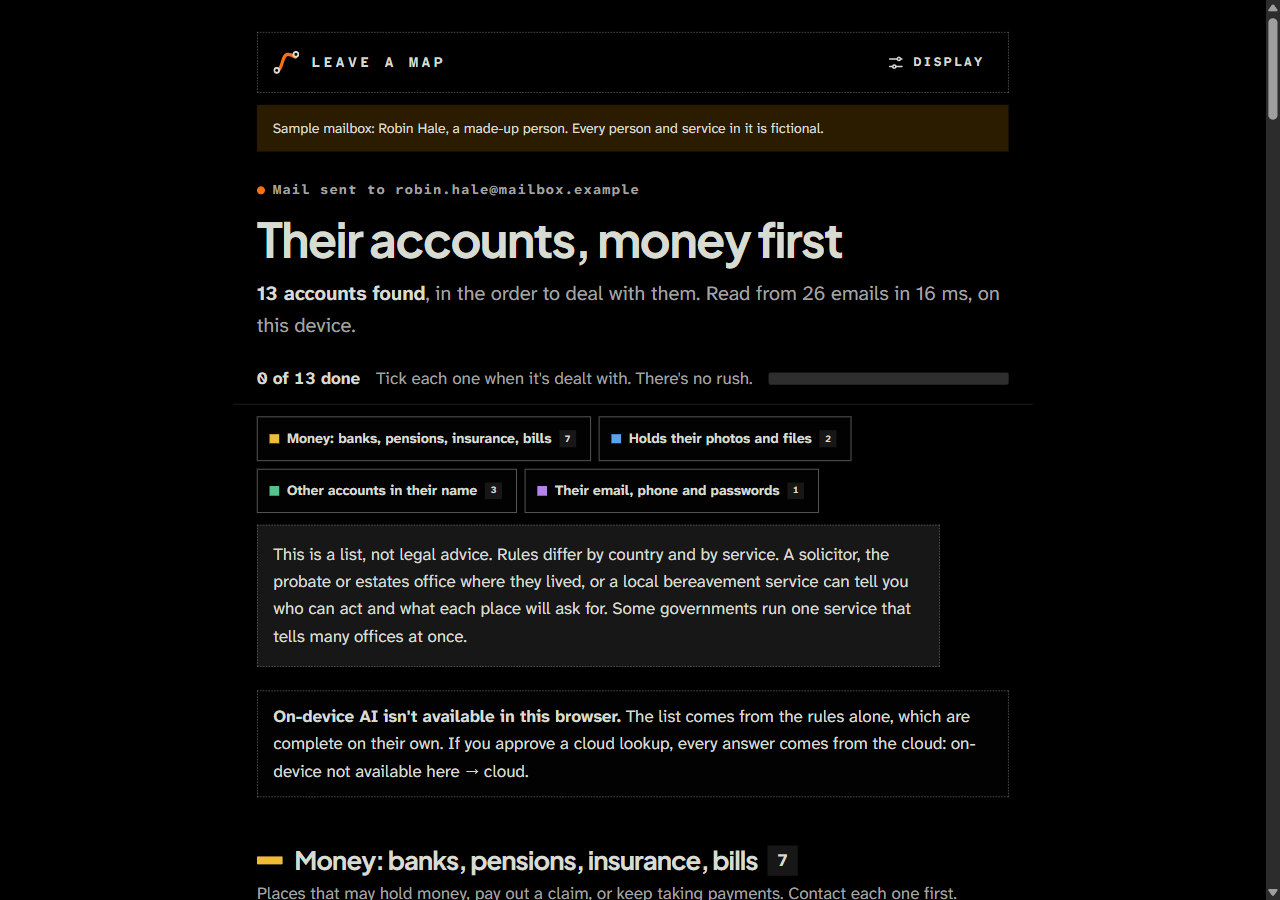
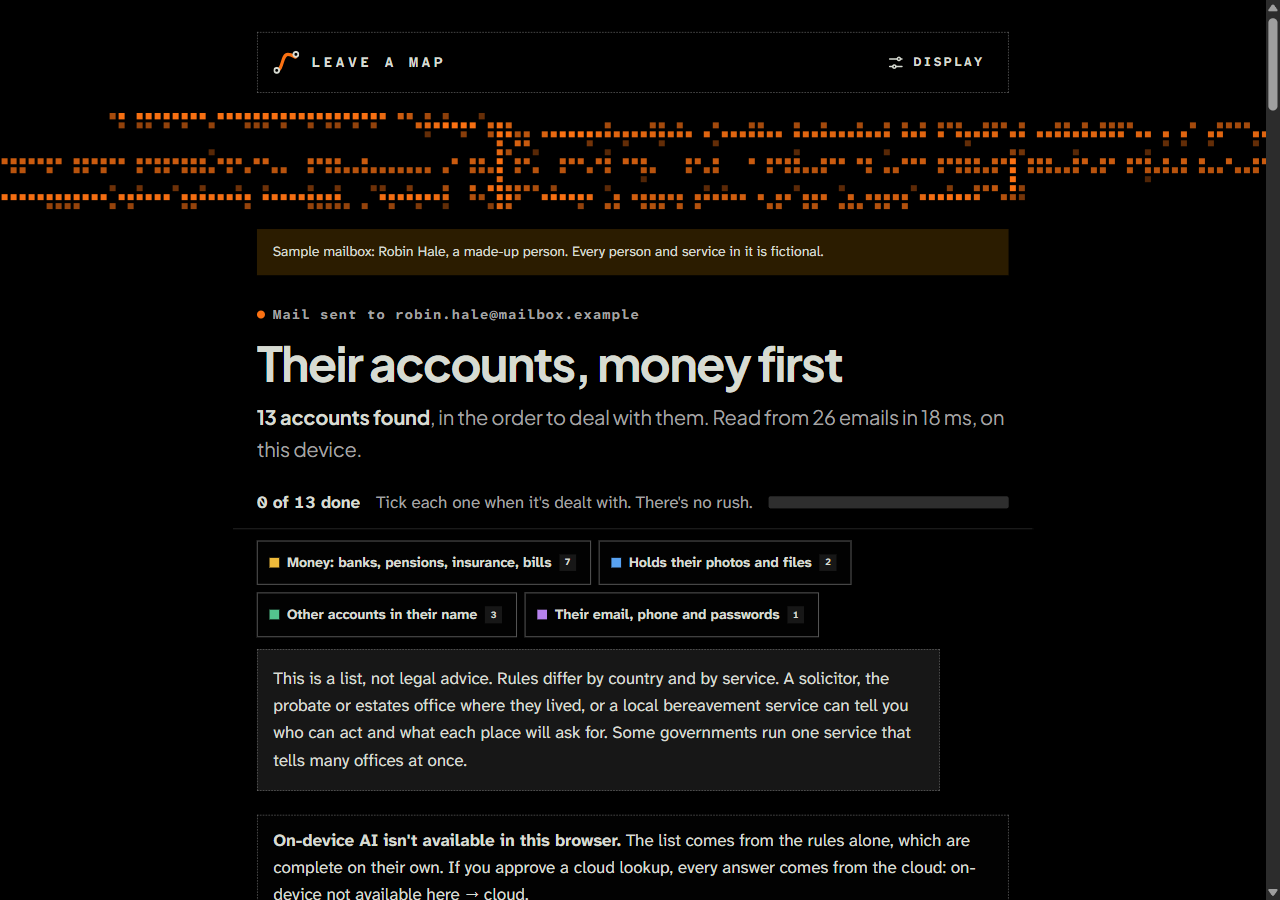
Dot-field background and reference-style type
- pixel-field.tsx: canvas of orange squares along the route lines. Flickers,
  turns into a ring as you scroll, grows from the centre during the scan,
  and shows as a band on the map. aria-hidden, one still frame with motion off.
- Start hero: mono kicker row, lede, very large tight headline with an
  orange full stop.
- Scan: big handwritten percentage (Architects Daughter) under the field.
- Cards: label/value fact rows.
- DESIGN.md, NOTICE, screenshots updated.

Changed region(s): [[0.0, 0.0933, 1.0, 0.7156], [0.1875, 0.9022, 0.75, 1.0], [0.1875, 0.7467, 0.75, 0.8711]]

diff --git a/apps/scan/src/styles.css b/apps/scan/src/styles.css
@@ -25,6 +25,7 @@
   --font-display: "Plus Jakarta Sans Variable", system-ui, -apple-system, "Segoe UI", sans-serif;
   --font-body: "Atkinson Hyperlegible Next Variable", system-ui, -apple-system, "Segoe UI", sans-serif;
   --font-mono: "Atkinson Hyperlegible Mono Variable", ui-monospace, "Cascadia Mono", monospace;
+  --font-hand: "Architects Daughter", "Segoe Print", cursive;
 
   --step--1: .875rem;
   --step-0: 1.0625rem;
@@ -125,7 +126,7 @@ h1[tabindex="-1"]:focus { outline: none; }
 
 .page { max-width: 46rem; margin: 0 auto; padding: var(--space-6) var(--space-4) var(--space-8); }
 .page.wide { max-width: 72rem; }
-.lede { font-size: var(--step-1); color: var(--muted); max-width: 38ch; }
+.lede { font-family: var(--font-display); font-size: var(--step-1); font-weight: 400; letter-spacing: -0.01em; color: var(--muted); max-width: 38ch; margin: 0; }
 .muted, .meta { color: var(--muted); font-size: var(--step--1); }
 .domain { font-family: var(--font-mono); font-size: .92em; color: var(--muted); overflow-wrap: break-word; word-break: normal; }
 .error { color: var(--error); font-weight: 700; margin: 0; }
@@ -182,13 +183,9 @@ th { color: var(--muted); font-weight: 700; }
 
 /* ---------- Start ---------- */
 .start { display: grid; gap: var(--space-6); padding-top: var(--space-5); }
-.hero { display: grid; gap: var(--space-4); padding-block: var(--space-5) var(--space-2); }
-.hero h1 { font-size: var(--step-4); line-height: .98; margin: 0; max-width: 15ch; letter-spacing: -0.05em; }
+.hero { display: grid; gap: var(--space-4); padding-block: var(--space-3) var(--space-2); }
+.hero h1 { font-size: clamp(3rem, .8rem + 8.5vw, 7rem); font-weight: 600; line-height: .9; margin: 0; letter-spacing: -0.055em; }
 .hero h1 .dot { color: var(--accent); }
-.hero-art { order: -1; width: 100%; max-width: 18rem; height: auto; justify-self: start; pointer-events: none; }
-.hero-art .route { fill: none; stroke-width: 8; stroke-linecap: butt; stroke-dasharray: 8 4; }
-.hero-art .r1 { stroke: var(--accent); } .hero-art .r2 { stroke: var(--muted); } .hero-art .r3 { stroke: var(--line-strong); }
-.hero-art .stn { fill: var(--paper); stroke: var(--ink); stroke-width: 3; }
 .assure {
   display: flex; gap: var(--space-3); align-items: flex-start; margin: 0;
   padding: var(--space-3) 0; border-block: var(--dash);
@@ -235,11 +232,8 @@ th { color: var(--muted); font-weight: 700; }
 
 /* ---------- Scanning ---------- */
 .scanning { min-height: 80dvh; display: grid; align-content: center; gap: var(--space-4); }
-.scan-art { width: 100%; max-width: 32rem; height: auto; overflow: visible; }
-.scan-art .track { fill: none; stroke: var(--line); stroke-width: 8; stroke-linecap: round; }
-.scan-art .done { fill: none; stroke: var(--accent); stroke-width: 8; stroke-linecap: round; transition: stroke-dashoffset var(--dur-2) var(--ease-out); }
-.scan-art .train { fill: var(--accent); }
-.scan-pct { font-family: var(--font-display); font-size: var(--step-4); font-weight: 700; letter-spacing: -0.05em; line-height: 1; margin: 0; font-variant-numeric: tabular-nums; }
+.scan-pct { margin: 0; text-align: right; font-family: var(--font-hand); font-size: clamp(3.5rem, 2rem + 6vw, 6.5rem); line-height: 1; color: var(--muted); }
+.scan-pct span { font-size: .45em; }
 .scan-count { margin: 0; font-variant-numeric: tabular-nums; color: var(--muted); }
 
 /* ---------- Map: header ---------- */
@@ -251,7 +245,7 @@ th { color: var(--muted); font-weight: 700; }
 }
 .eyebrow::before { content: ""; flex: none; width: .5rem; height: .5rem; border-radius: 50%; background: var(--accent); }
 .map-head h1 { margin: 0; }
-.summary { margin: 0; font-size: var(--step-1); color: var(--muted); }
+.summary { margin: 0; font-family: var(--font-display); font-size: var(--step-1); letter-spacing: -0.01em; color: var(--muted); }
 .summary strong { color: var(--ink); }
 .count { display: inline-grid; place-items: center; min-width: 1.75em; height: 1.75em; padding: 0 .45em; margin-left: .35em; border-radius: var(--radius-s); background: var(--sunk); color: var(--ink); font-family: var(--font-mono); font-size: .68em; font-weight: 700; letter-spacing: 0; vertical-align: .2em; }
 
@@ -443,7 +437,6 @@ details[open] > summary .chev { transform: rotate(90deg); }
   .card { padding: var(--space-3); }
   .card-head { flex-wrap: wrap; }
   .moved { margin-left: 0; }
-  .hero-art { max-width: 12rem; }
   .wordmark { letter-spacing: .12em; font-size: .8rem; }
   .topbar { padding-left: var(--space-3); }
   button.display-btn { padding-inline: .5rem; letter-spacing: .1em; }
@@ -525,19 +518,14 @@ button.chip-btn[aria-pressed="true"] { background: var(--accent-soft); border-co
 :root.motion-ok .screen > :nth-child(4) { animation-delay: 240ms; } :root.motion-ok .screen > :nth-child(5) { animation-delay: 320ms; }
 :root.motion-ok .screen > :nth-child(n+6) { animation-delay: 400ms; }
 :root.motion-ok .hero { animation: none; }
-:root.motion-ok .hero > :not(.hero-art) { animation: rise var(--dur-3) var(--ease-expo) .75s backwards; }
-:root.motion-ok .hero-art .route { animation: fade .9s var(--ease-out) .2s backwards; }
-:root.motion-ok .hero-art .r2 { animation-delay: .55s; } :root.motion-ok .hero-art .r3 { animation-delay: .8s; }
-:root.motion-ok .hero-art .stn { transform-box: fill-box; transform-origin: center; animation: pop .6s var(--ease-expo) backwards; }
-:root.motion-ok .hero-art .stn:nth-of-type(1) { animation-delay: 1.1s; } :root.motion-ok .hero-art .stn:nth-of-type(2) { animation-delay: 1.25s; }
-:root.motion-ok .hero-art .stn:nth-of-type(3) { animation-delay: 1.4s; } :root.motion-ok .hero-art .stn:nth-of-type(4) { animation-delay: 1.55s; }
+:root.motion-ok .hero > .pixel-field { animation: fade 1.2s var(--ease-out) backwards; }
+:root.motion-ok .hero > :not(.pixel-field) { animation: rise var(--dur-3) var(--ease-expo) .5s backwards; }
 /* Typing: a station lights up when its answer is in */
 :root.motion-ok .station.is-done .station-n { animation: pop .5s var(--ease-expo); }
 :root.motion-ok .field-note.is-good, :root.motion-ok .field-note.is-warn { animation: rise .35s var(--ease-expo); }
 :root.motion-ok .display-panel:popover-open { animation: panel .32s var(--ease-expo); }
 
 /* Scanning */
-:root.motion-ok .scan-art .train { animation: pulse 1.2s ease-in-out infinite; transform-box: fill-box; transform-origin: center; }
 :root.motion-ok .scan-status { animation: rise .4s var(--ease-expo); }
 
 /* Map */
@@ -582,7 +570,7 @@ button.chip-btn[aria-pressed="true"] { background: var(--accent-soft); border-co
 /* ---------- Print: the list as a checklist on paper ---------- */
 @media print {
   .progress { position: static; }
-  .cloud, .nano, .no-ai, .skip, button, .hero-art { display: none !important; }
+  .cloud, .nano, .no-ai, .skip, button, .pixel-field { display: none !important; }
   .card { box-shadow: none; break-inside: avoid; }
   details { display: block; }
 }
@@ -598,3 +586,24 @@ button.chip-btn[aria-pressed="true"] { background: var(--accent-soft); border-co
 .mode-text { display: grid; gap: var(--space-1); }
 .mode-text span { color: var(--muted); }
 .loss-note { margin: 0; padding: var(--space-4); border: var(--dash); border-radius: var(--radius-m); background: var(--sunk); max-width: 62ch; }
+
+
+/* ---------- Pixel field and the reference-style text ---------- */
+/* The dot-matrix canvas (pixel-field.tsx) runs edge to edge; it reads its colour from `color`. */
+.pixel-field { display: block; width: 100vw; margin-inline: calc(50% - 50vw); height: clamp(15rem, 44vh, 26rem); color: var(--accent); }
+.pixel-field.band { height: 6.5rem; margin-block: var(--space-2) 0; }
+.scan-stage .pixel-field { height: clamp(16rem, 50vh, 30rem); }
+:root[data-contrast="more"] .pixel-field { opacity: .75; }
+@media (forced-colors: active) { .pixel-field { display: none; } }
+
+/* Small labels in a row, like a sign: what this is, and a status with a dot. */
+.kicker { display: flex; flex-wrap: wrap; justify-content: space-between; gap: var(--space-2) var(--space-4); margin: 0;
+  font-family: var(--font-mono); font-size: .8rem; font-weight: 700; text-transform: uppercase; letter-spacing: .18em; color: var(--muted); }
+.kicker .live { display: inline-flex; align-items: center; gap: .55rem; }
+.kicker .live::before { content: ""; width: .5rem; height: .5rem; border-radius: 50%; background: var(--accent); }
+
+/* Card facts: label over value, side by side. */
+.facts { display: flex; flex-wrap: wrap; gap: var(--space-3) var(--space-6); margin: var(--space-4) 0 0; padding-top: var(--space-3); border-top: var(--dash); }
+.facts div { min-width: 0; }
+.facts dt { font-family: var(--font-mono); font-size: .78rem; font-weight: 700; text-transform: uppercase; letter-spacing: .14em; color: var(--muted); }
+.facts dd { margin: .15rem 0 0; font-family: var(--font-display); font-weight: 600; }

diff --git a/apps/scan/src/pixel-field.tsx b/apps/scan/src/pixel-field.tsx
@@ -1,0 +1,104 @@
+// A dot-matrix picture drawn on a canvas: small squares in the accent colour, densest along three
+// route lines and their stops, thinning out at the edges. It flickers a little, changes shape as
+// you scroll (the routes gather into one big stop), and can grow out from the centre as `grow` goes
+// from 0 to 1 (the scan screen). Decorative only: aria-hidden, and with motion off it draws one
+// still frame. Text never sits on top of it.
+import { useEffect, useRef } from 'preact/hooks';
+
+type Props = { grow?: number; morph?: boolean; class?: string };
+
+const CELL = 9;   // grid pitch in CSS px
+const DOT = 6;    // square size in CSS px
+
+// Route lines in a 0..1 box (x, y pairs), the same three lines as the old route art.
+const ROUTES: number[][] = [
+  [0, .88, .32, .88, .4, .78, .4, .3, .48, .2, 1, .2],
+  [.1, .06, .3, .06, .4, .18, .4, .8, .48, .9, .72, .9, .8, .8, .8, .52],
+  [0, .54, 1, .54],
+];
+const STOPS = [[.4, .54], [.4, .2], [.8, .54], [.4, .88]];
+
+function segDist(px: number, py: number, ax: number, ay: number, bx: number, by: number) {
+  const dx = bx - ax, dy = by - ay;
+  const t = Math.max(0, Math.min(1, ((px - ax) * dx + (py - ay) * dy) / (dx * dx + dy * dy || 1)));
+  return Math.hypot(px - ax - t * dx, py - ay - t * dy);
+}
+
+/** Density 0..1 for the route picture (a) and the single big stop (b), at a point in the box. */
+function density(u: number, v: number, aspect: number): [number, number] {
+  let d = 9;
+  for (const r of ROUTES) for (let i = 0; i + 3 < r.length; i += 2) d = Math.min(d, segDist(u * aspect, v, r[i] * aspect, r[i + 1], r[i + 2] * aspect, r[i + 3]));
+  for (const [x, y] of STOPS) d = Math.min(d, Math.max(0, Math.hypot((u - x) * aspect, v - y) - .05));
+  const a = Math.max(0, 1 - d / .16) ** 1.6;
+  const ring = Math.abs(Math.hypot((u - .5) * aspect, v - .5) - .3);
+  const b = Math.max(0, 1 - ring / .14) ** 1.4;
+  return [a, b];
+}
+
+// Stable per-cell noise, so the picture doesn't jump between frames.
+const hash = (i: number, j: number) => { const s = Math.sin(i * 127.1 + j * 311.7) * 43758.5453; return s - Math.floor(s); };
+
+export function PixelField({ grow = 1, morph = false, class: cls = '' }: Props) {
+  const ref = useRef<HTMLCanvasElement>(null);
+  const growRef = useRef(grow);
+  growRef.current = grow;
+
+  useEffect(() => {
+    const cv = ref.current!;
+    const cx = cv.getContext('2d');
+    if (!cx) return;
+    let cols = 0, rows = 0, A = new Float32Array(0), B = new Float32Array(0), N = new Float32Array(0);
+    let colour = '#f97316', raf = 0, last = 0;
+    const moving = () => document.documentElement.classList.contains('motion-ok');
+
+    const layout = () => {
+      const r = cv.getBoundingClientRect(), dpr = Math.min(2, devicePixelRatio || 1);
+      cv.width = Math.round(r.width * dpr); cv.height = Math.round(r.height * dpr);
+      cx.setTransform(dpr, 0, 0, dpr, 0, 0);
+      cols = Math.floor(r.width / CELL); rows = Math.floor(r.height / CELL);
+      const aspect = r.width / Math.max(1, r.height);
+      A = new Float32Array(cols * rows); B = new Float32Array(cols * rows); N = new Float32Array(cols * rows);
+      for (let j = 0; j < rows; j++) for (let i = 0; i < cols; i++) {
+        const k = j * cols + i, [a, b] = density((i + .5) / cols, (j + .5) / rows, aspect);
+        A[k] = a; B[k] = b; N[k] = hash(i, j);
+      }
+      colour = getComputedStyle(cv).color || colour;
+    };
+
+    const draw = (t: number) => {
+      const w = cols * CELL, h = rows * CELL, g = growRef.current, live = moving();
+      const box = cv.getBoundingClientRect();
+      // Scroll morph: 0 while the field is in view, 1 once it has scrolled most of the way out.
+      const m = morph && live ? Math.max(0, Math.min(1, -box.top / Math.max(1, box.height * .8))) : 0;
+      cx.clearRect(0, 0, cv.width, cv.height);
+      cx.fillStyle = colour;
+      for (let j = 0; j < rows; j++) for (let i = 0; i < cols; i++) {
+        const k = j * cols + i, n = N[k];
+        let d = A[k] + (B[k] - A[k]) * m;
+        if (g < 1) { const r = Math.hypot((i + .5) / cols - .5, ((j + .5) / rows - .5) * h / Math.max(1, w)); d *= Math.max(0, Math.min(1, (g * .75 - r) / .06)); }
+        if (d <= 0) continue;   // flicker never lights a cell outside the shape
+        const flicker = live ? .07 * Math.sin(t / 380 + n * 40) : 0;
+        if (n > d + flicker) continue;
+        cx.globalAlpha = Math.min(1, .3 + d * .8);
+        cx.fillRect(i * CELL, j * CELL, DOT, DOT);
+      }
+      cx.globalAlpha = 1;
+    };
+
+    // ponytail: ~12 frames a second is enough for a dot-matrix flicker and keeps the CPU quiet.
+    const loop = (t: number) => { if (t - last > 80) { last = t; draw(t); } raf = requestAnimationFrame(loop); };
+    const start = () => { cancelAnimationFrame(raf); layout(); if (moving()) raf = requestAnimationFrame(loop); else draw(0); };
+    start();
+    const redraw = () => draw(0);
+    cv.addEventListener('lam-redraw', redraw);
+    const ro = new ResizeObserver(start); ro.observe(cv);
+    // Redraw when the Display menu changes the theme or motion.
+    const mo = new MutationObserver(start); mo.observe(document.documentElement, { attributes: true, attributeFilter: ['class', 'data-theme', 'data-contrast'] });
+    return () => { cancelAnimationFrame(raf); cv.removeEventListener('lam-redraw', redraw); ro.disconnect(); mo.disconnect(); };
+  }, [morph]);
+
+  // With motion off there is no loop, so redraw when `grow` changes.
+  useEffect(() => { if (!document.documentElement.classList.contains('motion-ok')) ref.current?.dispatchEvent(new Event('lam-redraw')); }, [grow]);
+
+  return <canvas ref={ref} class={`pixel-field ${cls}`} aria-hidden="true" />;
+}

diff --git a/apps/scan/src/main.tsx b/apps/scan/src/main.tsx
@@ -6,8 +6,10 @@ import { lazy, Suspense } from 'preact/compat';
 import '@fontsource-variable/atkinson-hyperlegible-next';
 import '@fontsource-variable/atkinson-hyperlegible-mono';
 import '@fontsource-variable/plus-jakarta-sans';
+import '@fontsource/architects-daughter/latin-400.css';
 import './styles.css';
 import { applyDisplay, loadDisplay, TopBar } from './display.tsx';
+import { PixelField } from './pixel-field.tsx';
 
 applyDisplay(loadDisplay());
 import { StartScreen } from './screens/start.tsx';
@@ -43,19 +45,16 @@ function App() {
   if (state.step === 'start') return <StartScreen onScan={scan} onSample={trySample} error={state.error} />;
   if (state.step === 'scanning') {
     const pct = state.totalBytes ? Math.floor((state.bytesRead / state.totalBytes) * 100) : 0;
-    const x = 20 + (pct / 100) * 480;
     const loss = state.mode === 'loss';
     const stage = pct < 25 ? 'Opening the mailbox…' : pct < 75 ? `Reading who sends ${loss ? 'them' : 'you'} mail…` : 'Sorting what matters most…';
     return (
       <main id="main" class="page scanning screen">
         <TopBar />
         <h1>Reading {loss ? 'their' : 'your'} mailbox</h1>
-        <p class="scan-pct" aria-hidden="true">{pct}%</p>
-        <svg class="scan-art" viewBox="0 0 520 40" aria-hidden="true" focusable="false">
-          <path class="track" d="M20 20 H500" />
-          <path class="done" d="M20 20 H500" pathLength={1} stroke-dasharray="1" stroke-dashoffset={1 - pct / 100} />
-          <circle class="train" cx={x} cy="20" r="9" />
-        </svg>
+        <div class="scan-stage" aria-hidden="true">
+          <PixelField grow={pct / 100} />
+          <p class="scan-pct">{pct}<span>%</span></p>
+        </div>
         <progress class="vh" max={100} value={pct} aria-label="Scan progress" />
         <p class="scan-count" aria-live="polite">{pct}% · {state.messages.toLocaleString()} emails read</p>
         <p class="scan-status" key={stage}>{stage}</p>

diff --git a/apps/scan/src/screens/map.tsx b/apps/scan/src/screens/map.tsx
@@ -22,6 +22,7 @@ import { applyPack, type Link, type Pack, type ServiceFacts } from '../../../../
 import { loadPack } from '../pack-loader.ts';
 import { Check } from '../icons.tsx';
 import { TopBar } from '../display.tsx';
+import { PixelField } from '../pixel-field.tsx';
 import { COPY, listKey, type Mode } from '../mode.ts';
 
 type Props = {
@@ -138,7 +139,11 @@ function Card({ a, mode, rank, moved, onMoved, info, facts }: { a: RankedAccount
       {mode === 'loss' ? <LossSteps a={a} /> : <MoveSteps a={a} facts={facts} />}
       {info && <Lane3 info={info} />}
       <EvidenceDrawer a={a} mode={mode} />
-      <p class="meta">{a.nLinked} email{a.nLinked === 1 ? '' : 's'} to {mode === 'loss' ? 'their' : 'your school'} address{a.lastDate ? `, last on ${shortDate(a.lastDate)}` : ''}{a.flags.suspiciousIgnored ? `. ${a.flags.suspiciousIgnored} fake-looking email${a.flags.suspiciousIgnored === 1 ? '' : 's'} ignored` : ''}.</p>
+      <dl class="facts">
+        <div><dt>Emails to {mode === 'loss' ? 'their' : 'your'} address</dt><dd>{a.nLinked}</dd></div>
+        {a.lastDate ? <div><dt>Last one</dt><dd>{shortDate(a.lastDate)}</dd></div> : null}
+        {a.flags.suspiciousIgnored ? <div><dt>Fake ones ignored</dt><dd>{a.flags.suspiciousIgnored}</dd></div> : null}
+      </dl>
     </li>
   );
 }
@@ -191,6 +196,7 @@ export function MapScreen({ settings, mode, sample, accounts: scanned, stats, ms
     <main id="main" class="page map screen">
       <header class="map-head">
         <TopBar />
+        <PixelField class="band" />
         {sample && <p class="sample-note" role="note">{mode === 'loss'
           ? 'Sample mailbox: Robin Hale, a made-up person. Every person and service in it is fictional.'
           : 'Sample mailbox: Jordan Reyes, a made-up student. Every person and service is fictional except three real non-profit research sites (arxiv.org, zenodo.org, openreview.net). Their emails here are made up too.'}</p>}

diff --git a/apps/scan/src/screens/start.tsx b/apps/scan/src/screens/start.tsx
@@ -1,6 +1,7 @@
 import { useEffect, useState } from 'preact/hooks';
 import type { ScanSettings } from '../../../../packages/core/types.ts';
-import { HeroRoutes, Lock, Upload } from '../icons.tsx';
+import { Lock, Upload } from '../icons.tsx';
+import { PixelField } from '../pixel-field.tsx';
 import { TopBar } from '../display.tsx';
 import { countdown, longDate } from '../dates.ts';
 import type { Mode } from '../mode.ts';
@@ -85,11 +86,12 @@ export function StartScreen({ onScan, onSample, error }: Props) {
     <main id="main" class={`page start screen${over ? ' drop-anywhere' : ''}`}>
       <TopBar />
       <header class="hero">
-        <h1>{loss ? 'Find the accounts they left behind' : 'Your school email is going away'}<span class="dot">.</span></h1>
+        <p class="kicker"><span>{loss ? 'After a death' : 'School email closing'}</span><span class="live">Nothing leaves this device</span></p>
+        <PixelField morph />
         <p class="lede">{loss
           ? 'Their mailbox shows which banks, insurers, bills and sites they used. Make a list, then work through it at your own pace.'
           : 'Find the accounts tied to it before it does. Three quick steps.'}</p>
-        <HeroRoutes />
+        <h1>{loss ? 'Find the accounts they left behind' : 'Your school email is going away'}<span class="dot">.</span></h1>
       </header>
 
       <fieldset class="modes">

diff --git a/apps/scan/src/icons.tsx b/apps/scan/src/icons.tsx
@@ -14,16 +14,3 @@ export const Lock = () => <svg {...svg}><rect x="4" y="11" width="16" height="10
 export const Upload = () => <svg {...svg}><path d="M12 16V4M7 9l5-5 5 5" /><path d="M4 16v3a1 1 0 0 0 1 1h14a1 1 0 0 0 1-1v-3" /></svg>;
 export const Sliders = () => <svg {...svg}><path d="M4 7h10M18 7h2M4 17h4M12 17h8" /><circle cx="16" cy="7" r="2" /><circle cx="10" cy="17" r="2" /></svg>;
 export const Check = () => <svg {...svg} stroke-width={3.5}><path d="M5 12.5l4.5 4.5L19 7.5" /></svg>;
-
-/** Three lines meeting at stops: the start screen's art. */
-export const HeroRoutes = () => (
-  <svg class="hero-art" aria-hidden="true" focusable="false" viewBox="0 0 360 260">
-    <path class="route r1" d="M10 230 H120 Q150 230 150 200 V90 Q150 60 180 60 H350" />
-    <path class="route r2" d="M40 20 H110 Q150 20 150 60 V200 Q150 230 180 230 H260 Q290 230 290 200 V130" />
-    <path class="route r3" d="M10 140 H350" />
-    <circle class="stn" cx="150" cy="140" r="11" />
-    <circle class="stn" cx="150" cy="60" r="8" />
-    <circle class="stn" cx="290" cy="140" r="8" />
-    <circle class="stn" cx="150" cy="230" r="8" />
-  </svg>
-);

diff --git a/docs/DESIGN.md b/docs/DESIGN.md
@@ -23,7 +23,9 @@ Dark by default: black page, warm off-white text, and one orange for the things 
 
 - Square corners everywhere. Frames are thin dashed lines, like a printed map's grid.
 - Short labels (the wordmark, section labels, tiers) are in the mono face, uppercase and widely spaced.
-- The start screen's route art is drawn in dotted segments, like a dot-matrix sign.
+- A **dot field** (`apps/scan/src/pixel-field.tsx`): a canvas of small orange squares, densest along three route lines and their stops. It flickers a little, gathers into one ring as you scroll past it on the start screen, grows out from the centre as the scan runs, and sits as a thin band at the top of the map. It is decorative (`aria-hidden`), text never sits on it, and with motion off it draws one still frame. Forced colours and print hide it.
+- The start screen's header: a mono label row ("School email closing" / "After a death", and "Nothing leaves this device" with an orange dot), the dot field, a short lede, then a very large, tight headline ending in an orange full stop.
+- Account cards end in label/value rows: a mono uppercase label over a bold value (emails to the address, the last one, fake ones ignored).
 - No glows, gradients, blurred glass or confetti.
 
 ## Type
@@ -33,8 +35,9 @@ Dark by default: black page, warm off-white text, and one orange for the things 
 | Headings | Plus Jakarta Sans, weight 700, tight letter spacing | A plain, strong sans for the big headings |
 | Body and UI | Atkinson Hyperlegible Next | Made by the Braille Institute so that easily confused letters (I l 1, O 0) look different |
 | Domains, counts, labels | Atkinson Hyperlegible Mono | Domains are read character by character |
+| The scan's big percentage | Architects Daughter | One handwritten touch; decorative, so it's `aria-hidden` and the real progress is a `<progress>` |
 
-All three fonts are bundled from `@fontsource-variable` (OFL), so they're served from our own origin and the scan CSP (`font-src 'self'`) doesn't change. The cloud CSP has no `font-src`, so the consent window uses system fonts.
+All four fonts are bundled from Fontsource (OFL), so they're served from our own origin and the scan CSP (`font-src 'self'`) doesn't change. The cloud CSP has no `font-src`, so the consent window uses system fonts.
 
 Body text is 17 px with a line height of 1.6. Every size is in rem, so browser zoom and text size settings work.
 
@@ -78,7 +81,8 @@ Every main screen has a **Display** button (top right). It opens a native `popov
 All motion is CSS, and it only runs when `<html>` has `.motion-ok`. `display.tsx` sets that class from the Display menu; "Match device" follows `prefers-reduced-motion`. Without the class, every animation and transition is off.
 
 - Screens rise in, one block after another. The dotted routes fade in and the stops pop.
-- The scan screen fills a line, with a pulsing marker at its end.
+- The scan screen's dot field grows out from the centre as the percentage climbs.
+- The dot field flickers at about 12 frames a second, and the start screen's one changes shape as you scroll.
 - A bucket's line grows down, and its cards rise in as they scroll into view (`animation-timeline: view()`, where supported).
 - Stops pop when ticked. In school mode, the progress line says how you're doing ("First one done.", "Over halfway.", "All done."). The other mode stays quiet: "There's no rush."
 - `<details>` open smoothly where `interpolate-size` is supported.
@@ -91,7 +95,7 @@ All motion is CSS, and it only runs when `<html>` has `.motion-ok`. `display.tsx
 - Targets: buttons are 48 px tall and toggles 44 px. Nothing is under 24 px (WCAG 2.5.8).
 - Start form errors are linked to the field (`aria-invalid`), and focus moves to the field. The error itself is `role="alert"`.
 - The file field is a real `<input type="file">` laid over a drop zone, so the keyboard, screen readers and drag and drop all work.
-- The scan progress keeps a native `<progress>` for screen readers. The drawn line is `aria-hidden`.
+- The scan progress keeps a native `<progress>` for screen readers. The dot field and the big handwritten percentage are `aria-hidden`.
 - Print stylesheet: the map prints as a plain checklist.
 
 ## Rules for new UI

diff --git a/NOTICE.md b/NOTICE.md
@@ -37,10 +37,11 @@ Both MIT sources are under this licence, with the copyright lines in the table a
 
 ## Fonts
 
-The scan site bundles these fonts from [Fontsource](https://fontsource.org). All three are under the [SIL Open Font License 1.1](https://openfontlicense.org).
+The scan site bundles these fonts from [Fontsource](https://fontsource.org). All four are under the [SIL Open Font License 1.1](https://openfontlicense.org).
 
 | Font | Copyright |
 |---|---|
 | Atkinson Hyperlegible Next | Copyright 2020-2024 The Atkinson Hyperlegible Next Project Authors |
 | Atkinson Hyperlegible Mono | Copyright 2020-2024 The Atkinson Hyperlegible Mono Project Authors |
 | Plus Jakarta Sans | Copyright 2020 The Plus Jakarta Sans Project Authors |
+| Architects Daughter | Google Inc., as its Fontsource package states (designed by Kimberly Geswein) |
